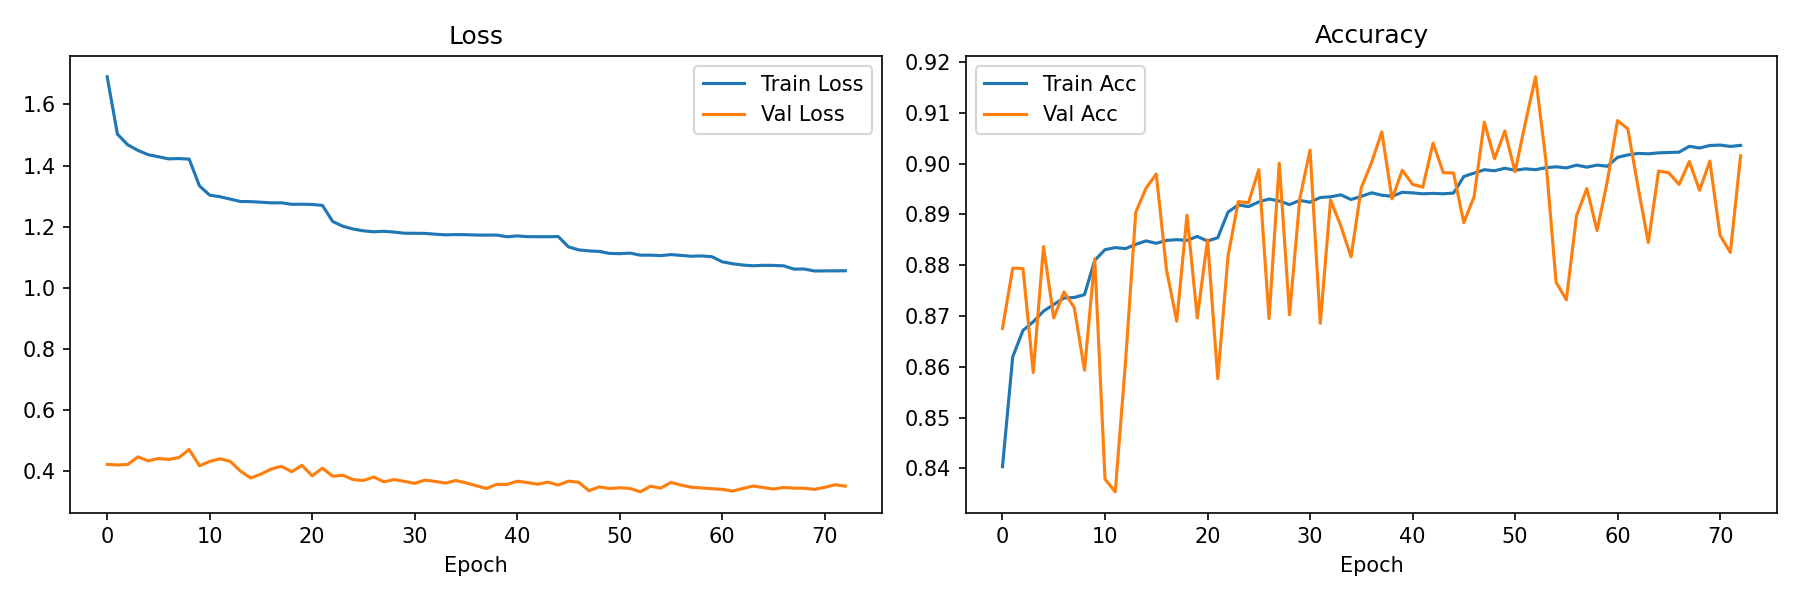
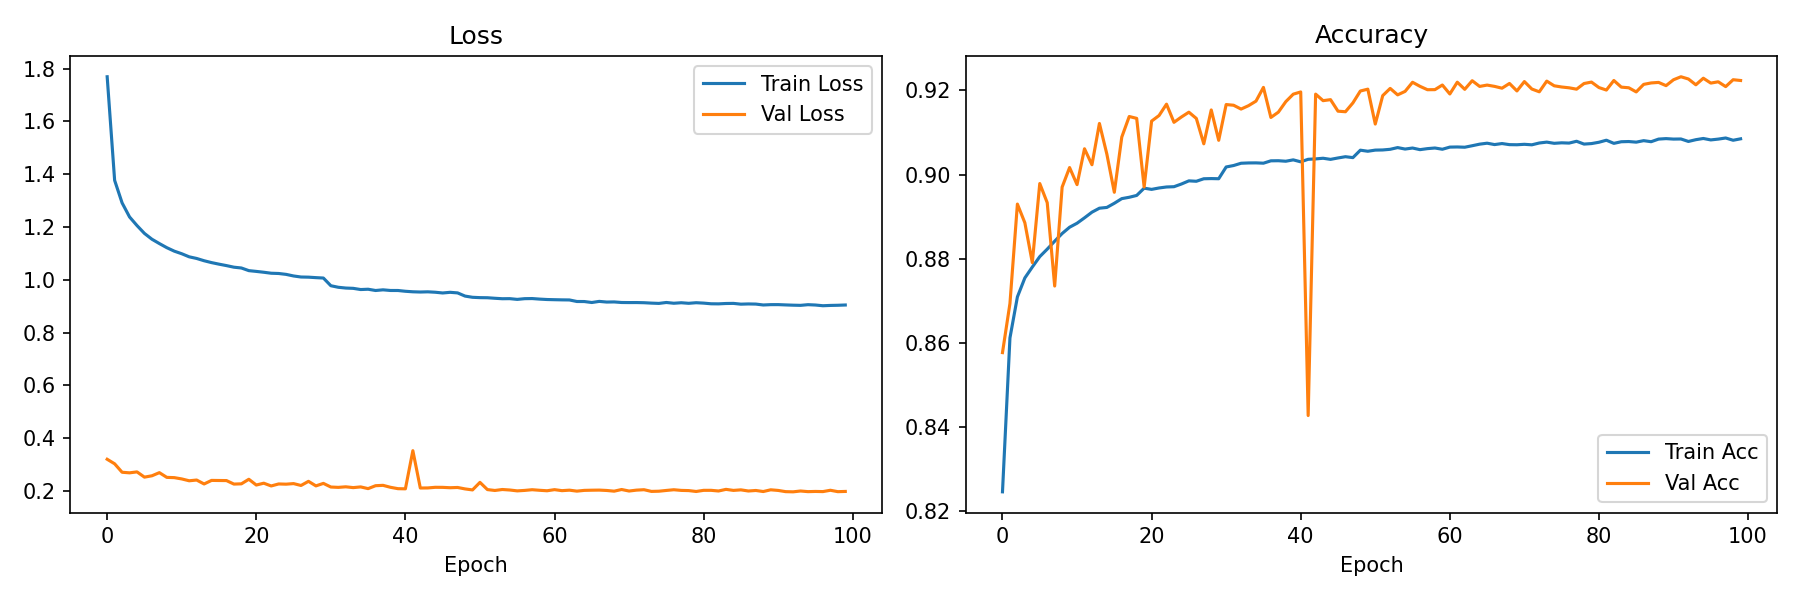
Adjusted Keras Dense

diff --git a/keras/training_with_keras.py b/keras/training_with_keras.py
@@ -17,7 +17,7 @@ import seaborn as sns
 # ─────────────────────────────────────────────
 RANDOM_STATE = 1
 NUM_CLASSES = 4
-BATCH_SIZE = 32
+BATCH_SIZE = 128
 EPOCHS = 100
 
 FIELDS_TO_DROP = [
@@ -108,15 +108,19 @@ print(f"\nNumber of input features: {n_features}")
 model = keras.Sequential([
     layers.Input(shape=(n_features,)),
 
-    layers.Dense(256, activation='relu', kernel_regularizer=regularizers.l2(1e-4)),
+    layers.Dense(256, activation='relu'),
     layers.BatchNormalization(),
     layers.Dropout(0.3),
 
-    layers.Dense(128, activation='relu', kernel_regularizer=regularizers.l2(1e-4)),
+    layers.Dense(128, activation='relu'),
     layers.BatchNormalization(),
     layers.Dropout(0.3),
 
-    layers.Dense(64, activation='relu', kernel_regularizer=regularizers.l2(1e-4)),
+    layers.Dense(64, activation='relu'),
+    layers.BatchNormalization(),
+    layers.Dropout(0.2),
+
+    layers.Dense(32, activation='relu'),
     layers.BatchNormalization(),
     layers.Dropout(0.2),
 
@@ -124,7 +128,7 @@ model = keras.Sequential([
 ])
 
 model.compile(
-    optimizer=keras.optimizers.Adam(learning_rate=0.001),
+    optimizer=keras.optimizers.Adam(learning_rate=0.0005),
     loss='categorical_crossentropy',
     metrics=['accuracy']
 )